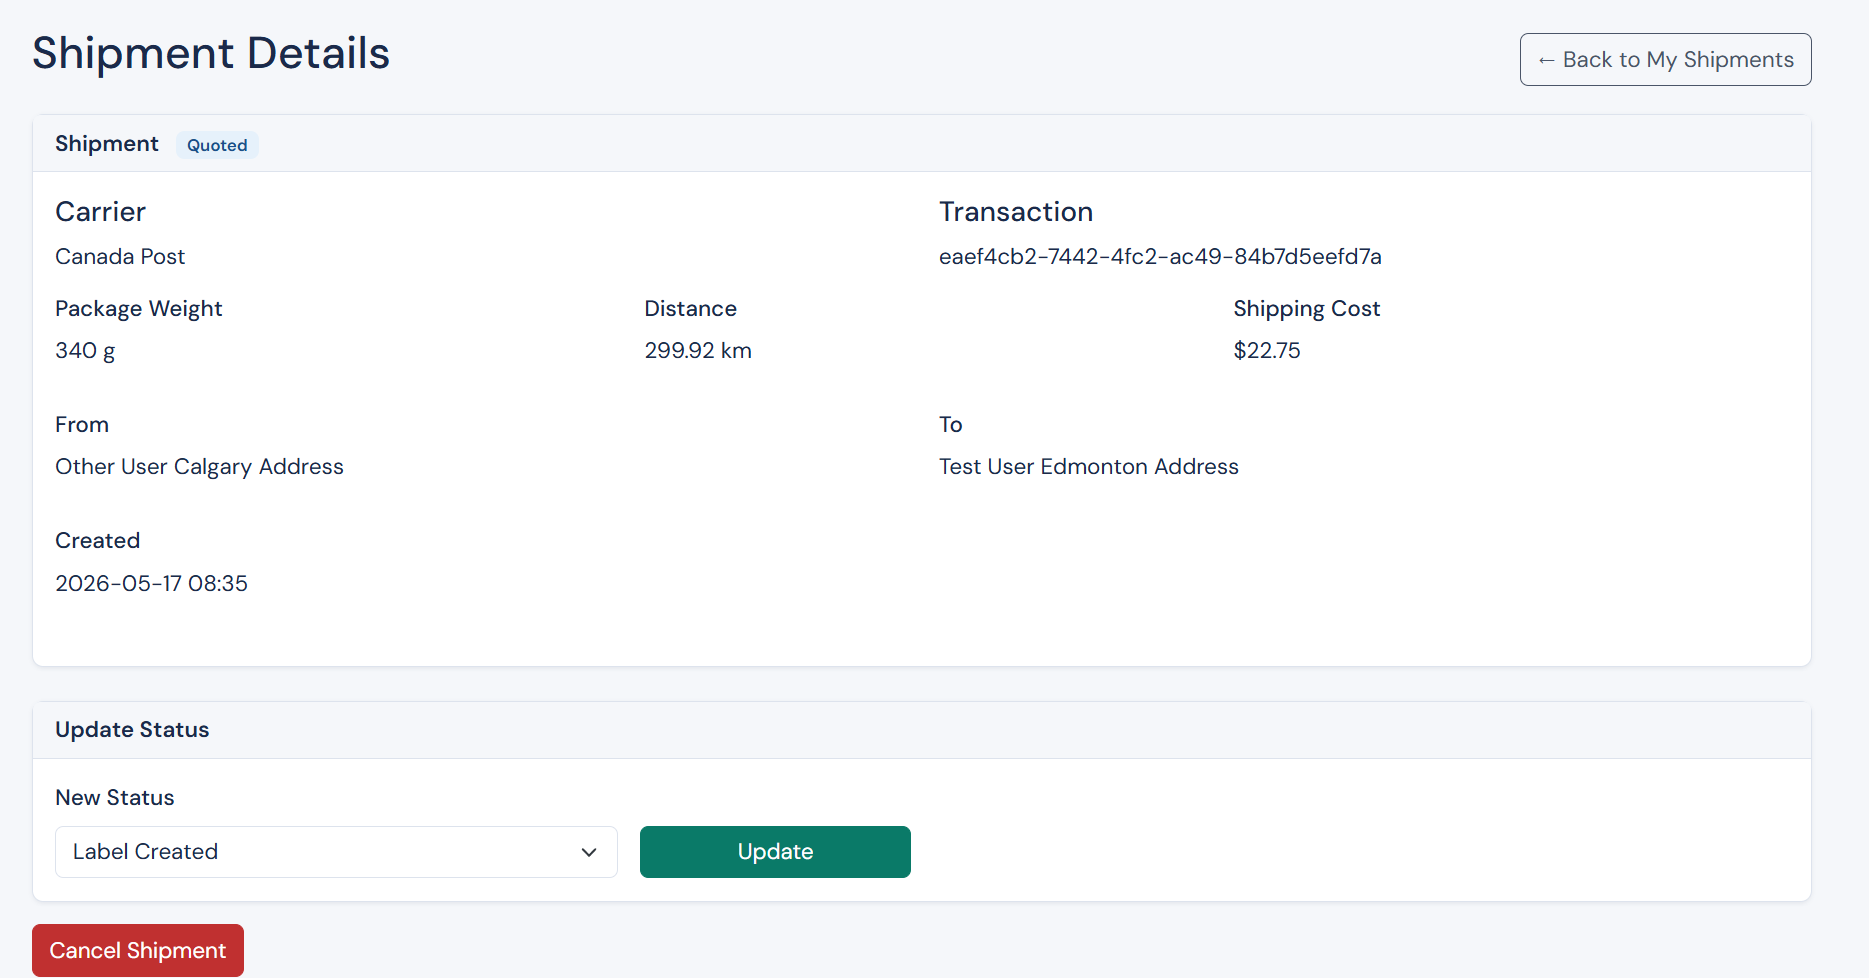
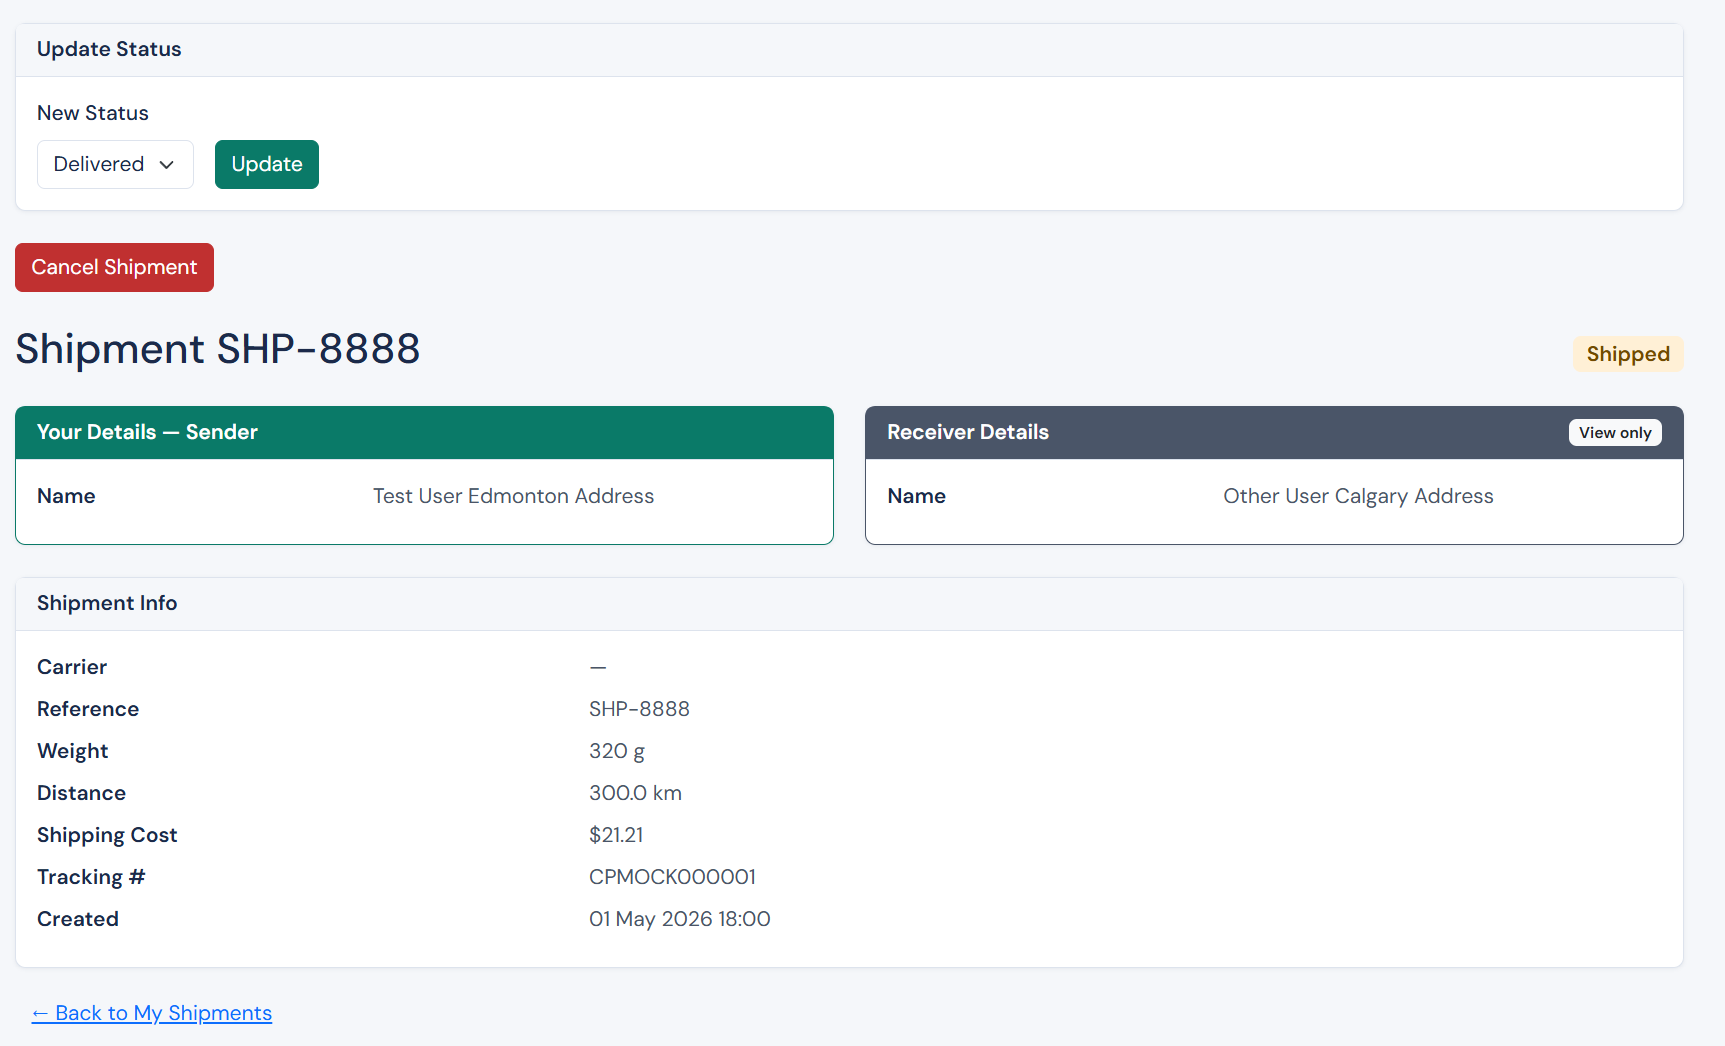
Update README project usage to match new shipping workfow

diff --git a/docs/README.md b/docs/README.md
@@ -344,12 +344,7 @@ Once an exchange request is accepted, a Transaction is created.
 
 1. Navigate to Transactions to see your active and past transactions.
 2. Navigate to shipping to see the quoted shipping estimates.
-
-- A Single Transaction will quote multiple shipping options.
-- Review the options by viewing the details.
-- Select the best one by canceling the others.
-
-4. Update the shipment status as the book moves through delivery.
+3. Update the shipment status as the book moves through delivery.
 
    ![Shipping options grid](src/Book-Exchange/img/Shipping-table.png)
    ![Shipping details page](src/Book-Exchange/img/shipment-details.png)